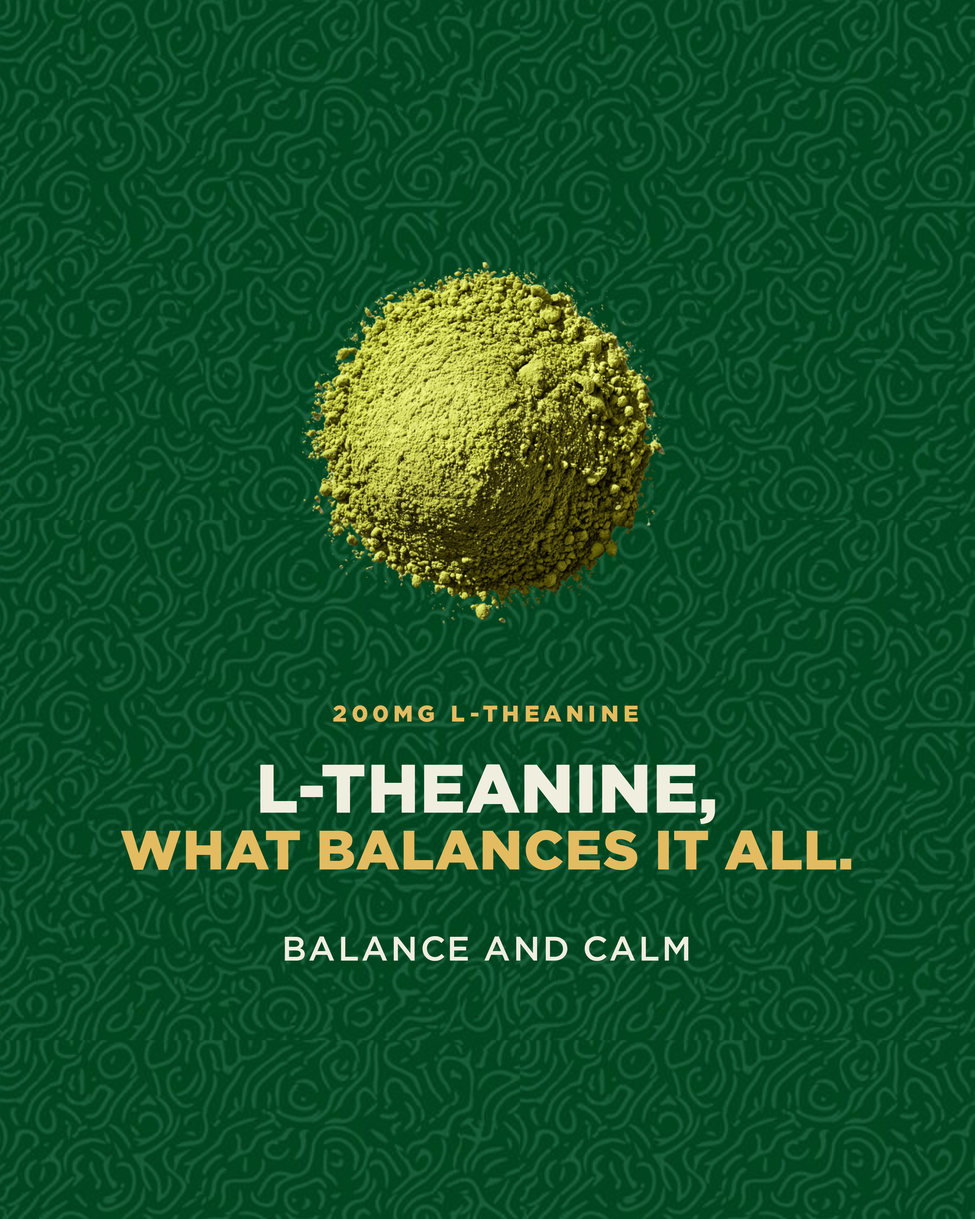
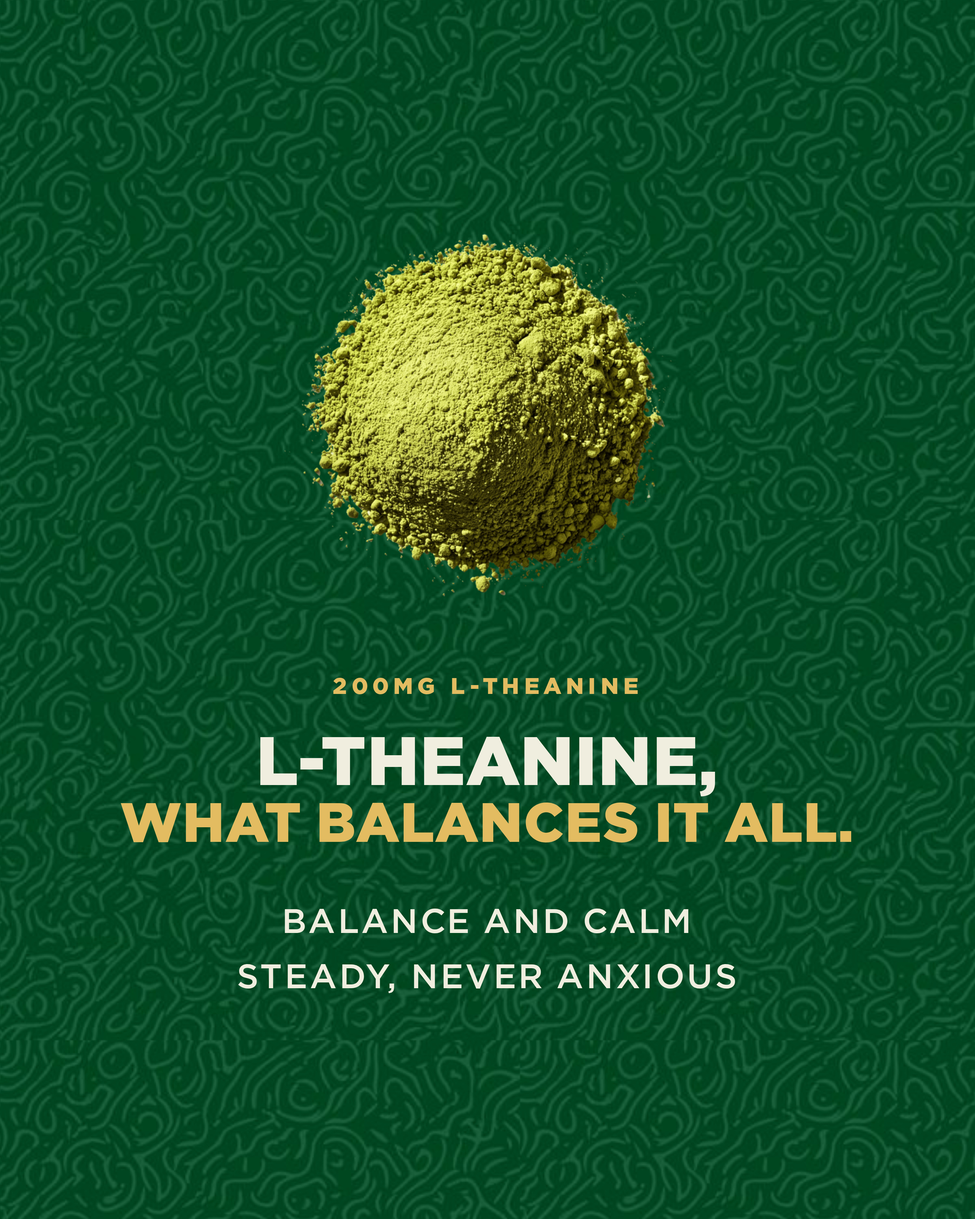
carousel: three-ingredients, a second line on the L-Theanine slide
"Steady, never anxious" joins "Balance and calm", which also restores the
two-line shape the other two ingredient slides have.

It describes how the drink feels rather than what it does to a person. The
brand makes no medical or health claims, so "stress relief" is out whatever
the ingredient is known for.

Claude-Session: https://claude.ai/code/session_01NhEtXPnfeCJfN73SqBkUZ5

Changed region(s): [[0.3125, 0.1875, 0.6875, 0.5], [0.125, 0.5312, 0.875, 0.7188], [0.25, 0.75, 0.75, 0.8125]]

diff --git a/email-ds/emails/carousel/three-ingredients.jsx b/email-ds/emails/carousel/three-ingredients.jsx
@@ -88,10 +88,12 @@ function CarouselThreeIngredients() {
       // margins. 34 is the size at which it fits, and it is the only line in
       // the set that is measured rather than chosen.
       '200mg L-Theanine', 'L-Theanine,', 'what balances it all.',
-      // One phrase, not two: "Balance and calm" and "Balances the whole
-      // experience" were the same claim said twice, and the repeat of the
-      // word was the first thing the eye caught.
-      ['Balance and calm'], 34),
+      // The second line replaces "Balances the whole experience", which said
+      // the same thing as the first and repeated its word. It describes how
+      // the drink feels rather than what it does to a person: the brand does
+      // not make medical or health claims, so a phrase like "stress relief"
+      // is out whatever the ingredient is known for.
+      ['Balance and calm', 'Steady, never anxious'], 34),
 
     // 5 · THE ASK. This was the weakest slide in the set — a closing frame
     // carrying nothing but type, on a carousel whose whole argument is what
